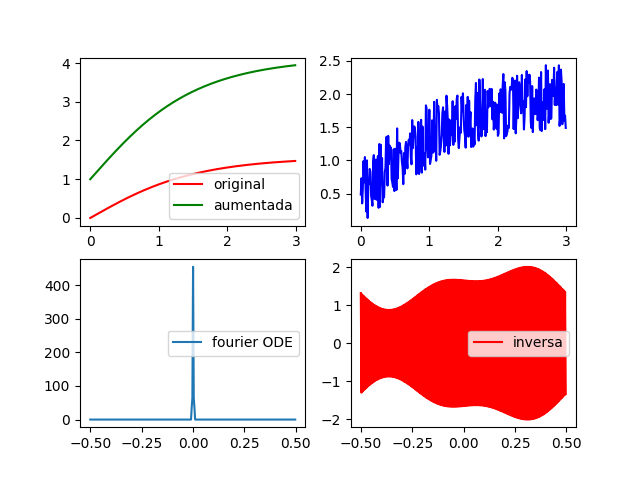
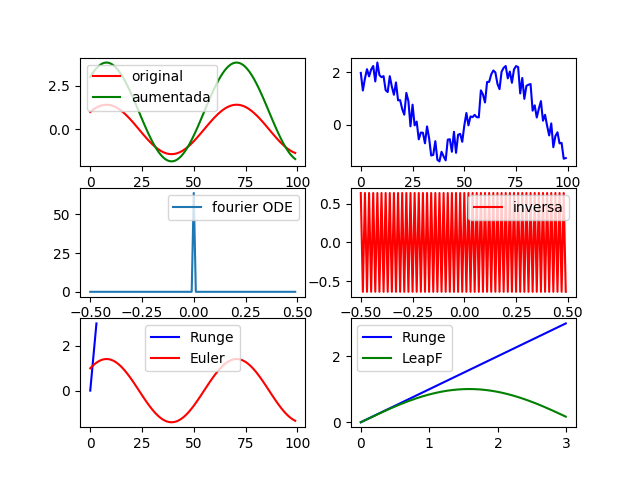
here

diff --git a/ODequation.cpp b/ODequation.cpp
@@ -4,10 +4,13 @@ using namespace std;
 
 int N=300;
 double x[3000];
+double t[3000];
 double dt=0.01;
 
 double derivada(double x);
 void euler(double *x, double condicionI);
+void runge(double *x, double condicionI);
+void leapf(double *x, double cond);
 
 int main(){
     FILE *f;
@@ -18,6 +21,24 @@ int main(){
         fprintf(f , "%f %f \n", i*dt, x[i]);
     }
     fclose(f);
+    
+    FILE *f2;
+    f2 = fopen("difSencillaRunge.dat" ,"w");
+    runge(x , 0.0);
+    cout << "Pinche ponquesito" << endl;
+    for(int i=0 ; i<N ;i++){
+        fprintf(f2 , "%f %f \n", i*dt, x[i]);
+    }
+    fclose(f2);
+    
+    FILE *f3;
+    f3 = fopen("difSencillaLeapF.dat" ,"w");
+    leapf(x , 0.0);
+    cout << "Pinche ponquesito" << endl;
+    for(int i=0 ; i<N ;i++){
+        fprintf(f3 , "%f %f \n", i*dt, x[i]);
+    }
+    fclose(f3);
     return 0;
 }
 
@@ -27,7 +48,28 @@ double derivada(double x){
 
 void euler(double *x, double condicionI){
     x[0] = condicionI;
+    t[0] = 0.0;
     for(int i=1 ; i<N ;i++){
-        x[i] = x[i-1] + dt*( cos(x[i-1]) );
+        x[i] = x[i-1] + dt*( cos(t[i-1]) );
     }
+}
+
+void runge(double *x, double condicionI){
+    x[0] = condicionI;
+    t[0] = 0.0;
+    for(int i=1 ; i<N ;i++){
+        double k1 = dt*( cos(t[i-1]) );
+        double k2 = dt*( cos(t[i-1]) + (0.5*k1)  );
+        x[i] = x[i-1] + k2;
+    }
+}
+
+void leapf(double *x , double cond){
+    x[0] = cond;
+    t[0] = 0.0;
+    for(int i=2 ; i<N ; i++){
+        t[i] = t[i-1] + dt;
+        x[i] = x[i-2] + ( 2*dt*cos(t[i-1]) );
+    }
+    
 }

diff --git a/graficar.py b/graficar.py
@@ -5,20 +5,21 @@ from numpy import fft as f
 
 
 
-#datos = np.loadtxt("datos.dat")
-datos = np.loadtxt("difSencilla.dat")
+datos = np.loadtxt("datos.dat")
+dato = np.loadtxt("difSencilla.dat")
+datoss = np.loadtxt("difSencillaLeapF.dat")
 
 x = datos.transpose()[0]
 y = datos.transpose()[1]
 
 a=plt.figure()
-v1 = plt.subplot(2,2,1)
+v1 = plt.subplot(3,2,1)
 #plt.xlim(0,10)
 v1.plot(x,y, color="r")
 v1.plot(x,2*y +1, color ="g")
 plt.legend(["original" , "aumentada"])
 
-v2=plt.subplot(2,2,2)
+v2=plt.subplot(3,2,2)
 #plt.xlim(0,15)
 v2.plot(x,y+np.random.rand(len(y)), color ="b")
 
@@ -30,15 +31,31 @@ x = f.fftshift(f.fftfreq( len(y) ))
 
 fo[abs(x) > 0.0085] = 0
 
-a1=plt.subplot(2,2,3)
+a1=plt.subplot(3,2,3)
 a1.plot(x,abs(fo))
 plt.legend(["fourier ODE"])
 
 iy = f.ifft(fo)
-a2 = plt.subplot(2,2,4)
+a2 = plt.subplot(3,2,4)
 a2.plot(x,iy, color="r")
 #plt.xlim(0,0.1)
 plt.legend(["inversa"])
+
+
+dato = np.loadtxt("difSencillaRunge.dat")
+
+v3 = plt.subplot(3,2,5)
+v3.plot(dato.transpose()[0],dato.transpose()[1], color="b")
+v3.plot(datos.transpose()[0],datos.transpose()[1], color="r")
+#plt.xlim(0,0.1)
+plt.legend(["Runge","Euler"])
+
+v4 = plt.subplot(3,2,6)
+v4.plot(dato.transpose()[0],dato.transpose()[1], color="b")
+v4.plot(datoss.transpose()[0],datoss.transpose()[1], color="g")
+#plt.xlim(0,0.1)
+plt.legend(["Runge","LeapF"])
+
 
 a.savefig("graficaCPP.png")
 
